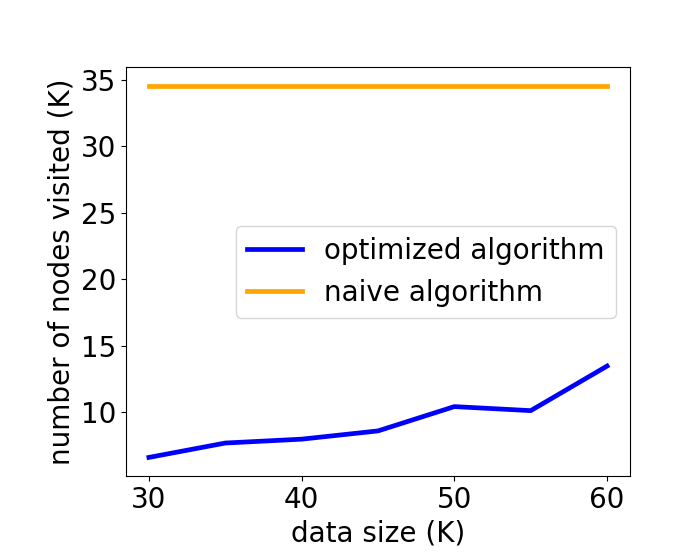
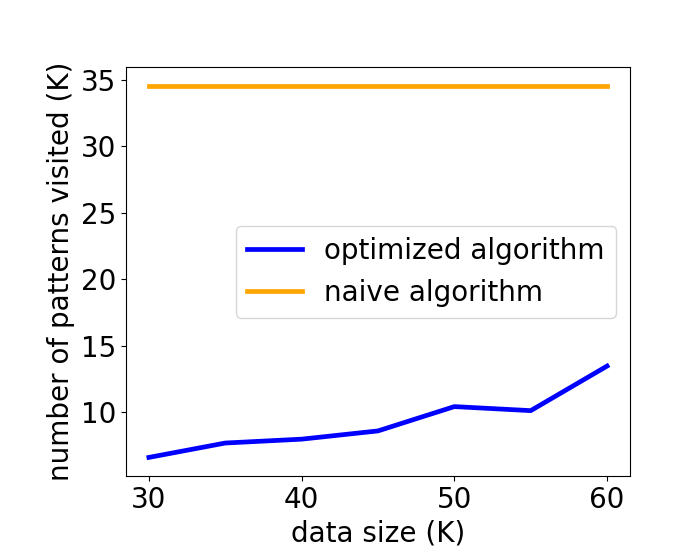
general, creditcard, datasize

Changed region(s): [[0.06, 0.0911, 0.12, 0.8804]]

diff --git a/Coding/Experiments/General_FP/CreditcardData/data_size_0_20210523.py b/Coding/Experiments/General_FP/CreditcardData/data_size_0_20210523.py
@@ -14,7 +14,7 @@ x axis: data sizes: 100, 500, 1000, 5000, 10000, 40000
 
 Other parameters:
 selected_attributes = ['age', 'education', 'marital-status', 'race', 'gender', 'workclass']
-threshold of cardinality Thc = 30
+size threshold Thc = 30
 threshold of minority group accuracy: overall acc - 20
 
 """
@@ -180,7 +180,7 @@ plt.plot(data_sizes, num_patterns_checked2, label="naive algorithm", color='oran
 plt.xlabel('data size (K)')
 plt.xticks([10000, 20000, 30000, 40000, 50000, 60000])
 ax.xaxis.set_major_formatter(FuncFormatter(thousands_formatter))
-plt.ylabel('number of nodes visited (K)')
+plt.ylabel('number of patterns visited (K)')
 ax.yaxis.set_major_formatter(FuncFormatter(thousands_formatter))
 plt.subplots_adjust(bottom=0.15, left=0.18)
 plt.legend()

diff --git a/Coding/Experiments/General_FP/CreditcardData/data_size_1_20210629.py b/Coding/Experiments/General_FP/CreditcardData/data_size_1_20210629.py
@@ -14,7 +14,7 @@ x axis: data sizes: 100, 500, 1000, 5000, 10000, 40000
 
 Other parameters:
 selected_attributes = ['age', 'education', 'marital-status', 'race', 'gender', 'workclass']
-threshold of cardinality Thc = 30
+size threshold Thc = 30
 threshold of minority group accuracy: overall acc - 20
 
 """
@@ -192,7 +192,7 @@ plt.plot(data_sizes, num_patterns_checked2, label="naive algorithm", color='oran
 plt.xlabel('data size (K)')
 plt.xticks([30000, 40000, 50000, 60000])
 ax.xaxis.set_major_formatter(FuncFormatter(thousands_formatter))
-plt.ylabel('number of nodes visited (K)')
+plt.ylabel('number of patterns visited (K)')
 ax.yaxis.set_major_formatter(FuncFormatter(thousands_formatter))
 plt.subplots_adjust(bottom=0.15, left=0.18)
 plt.legend()
